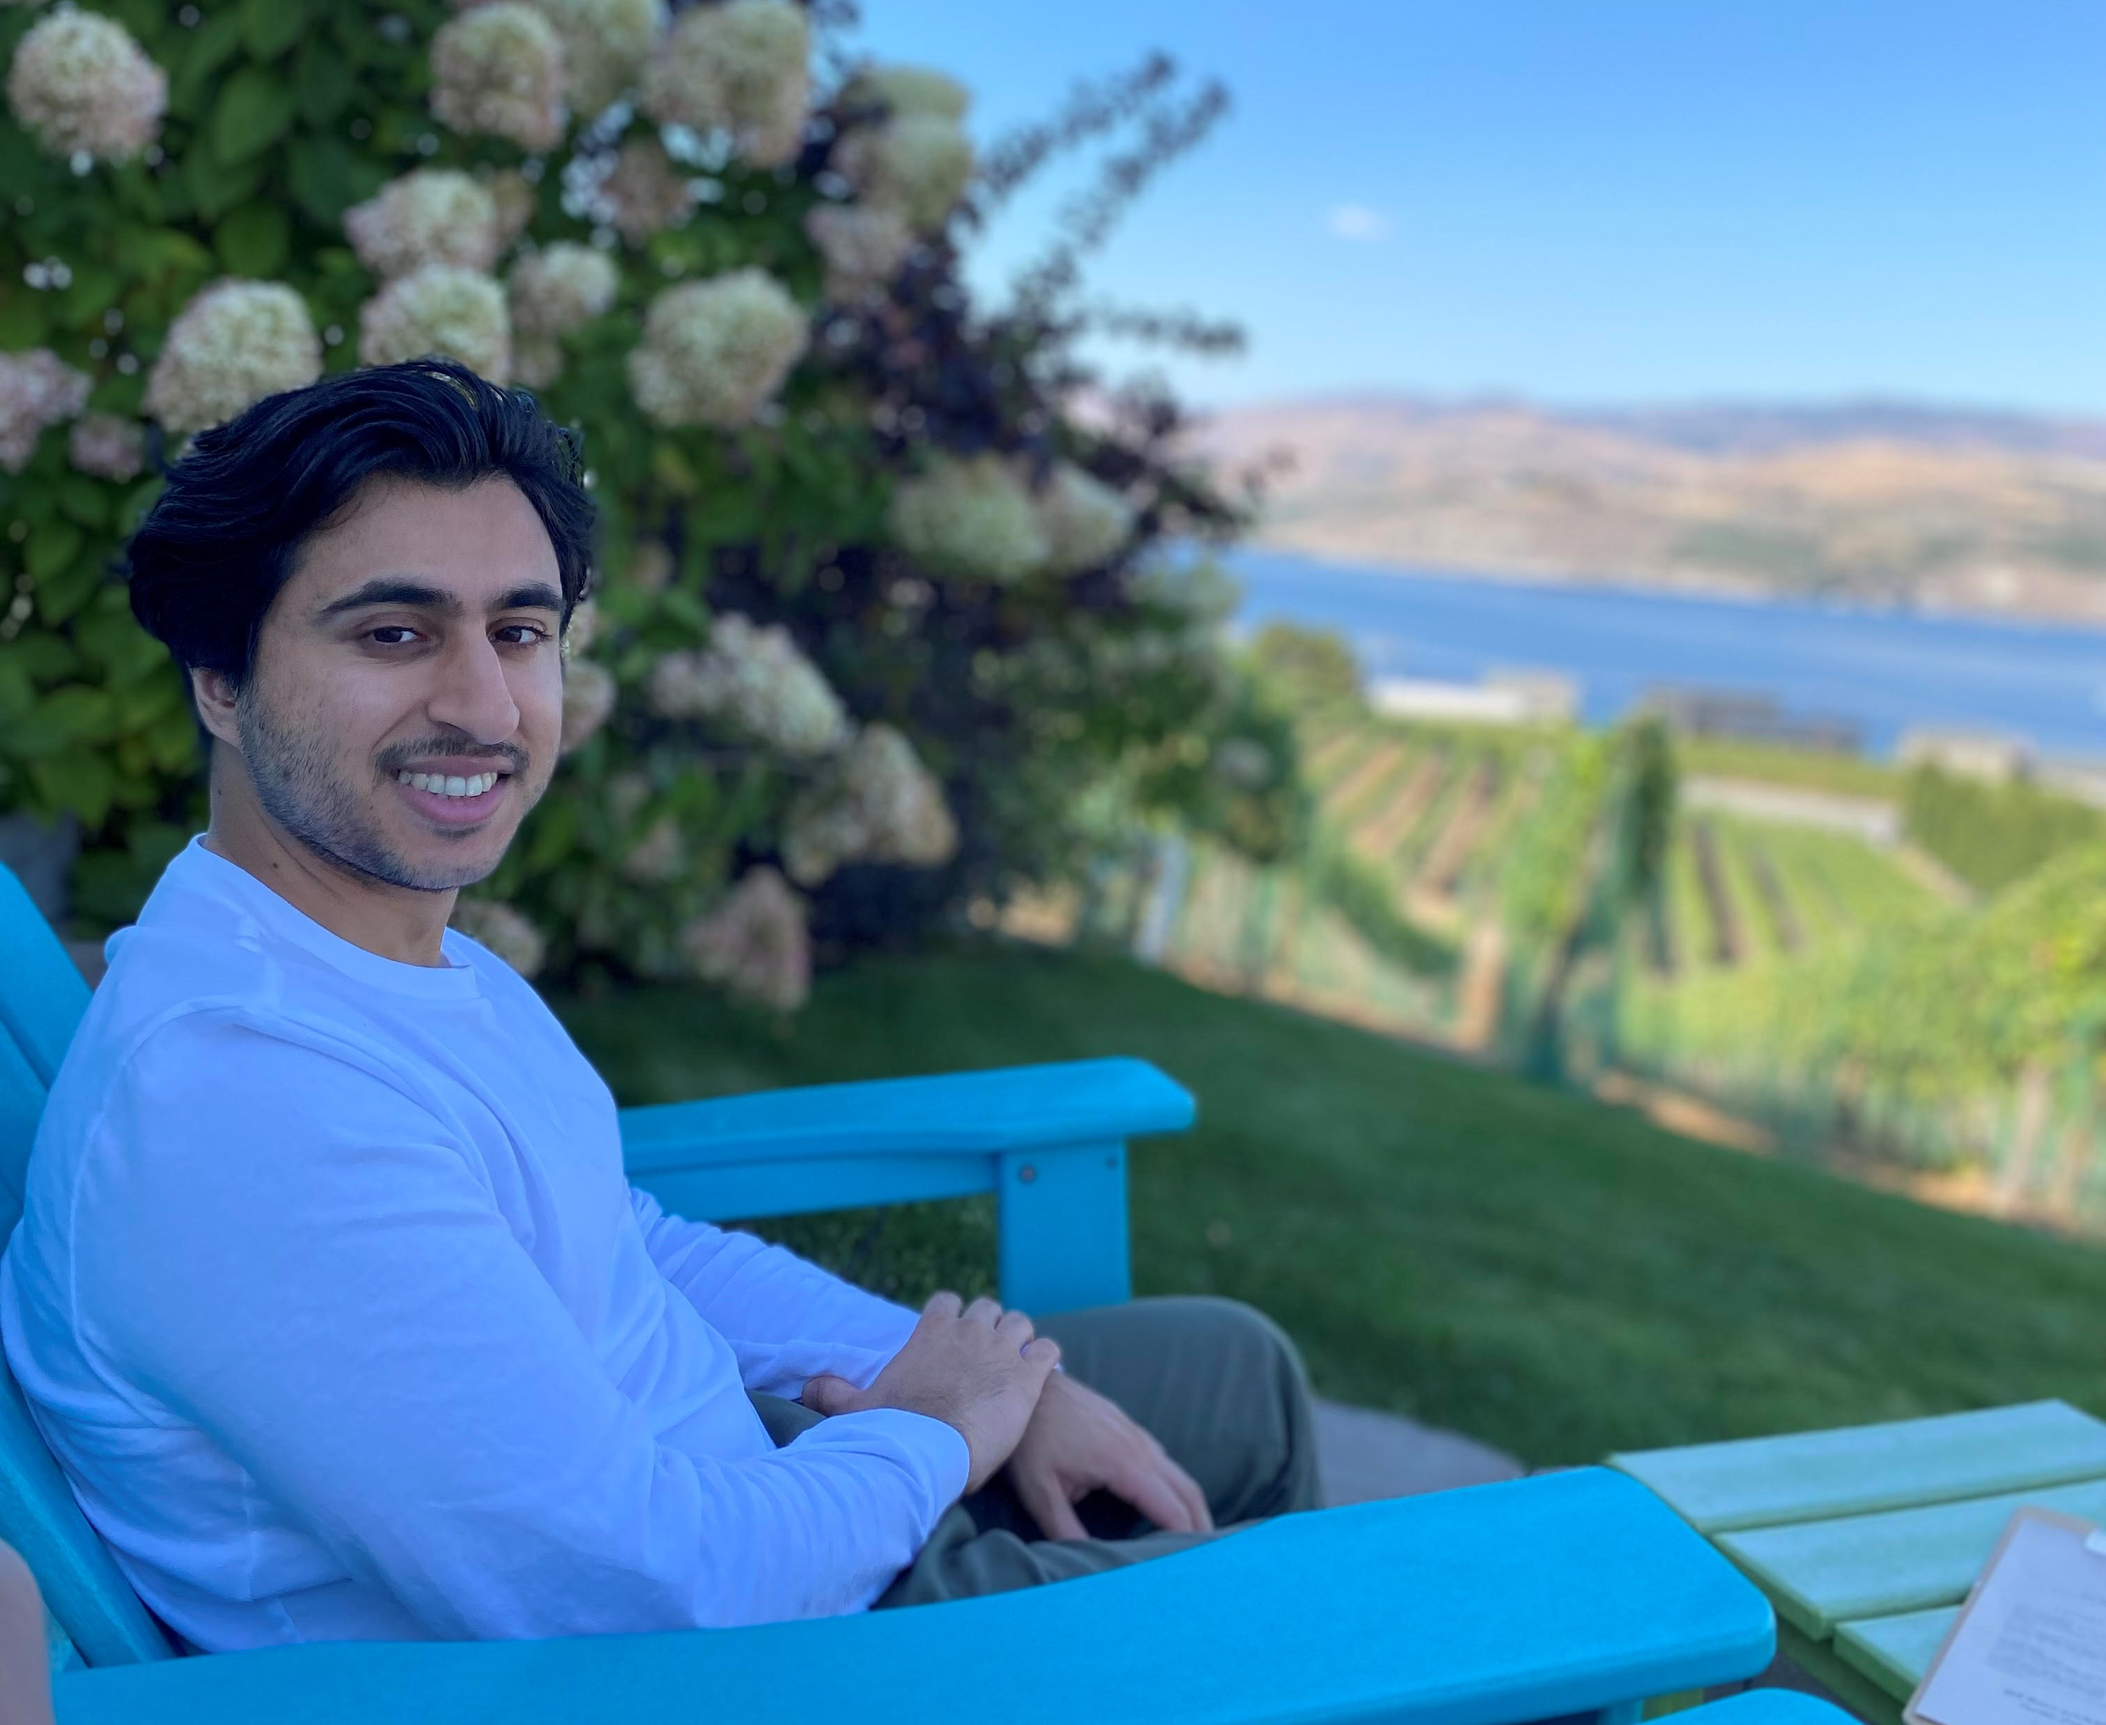
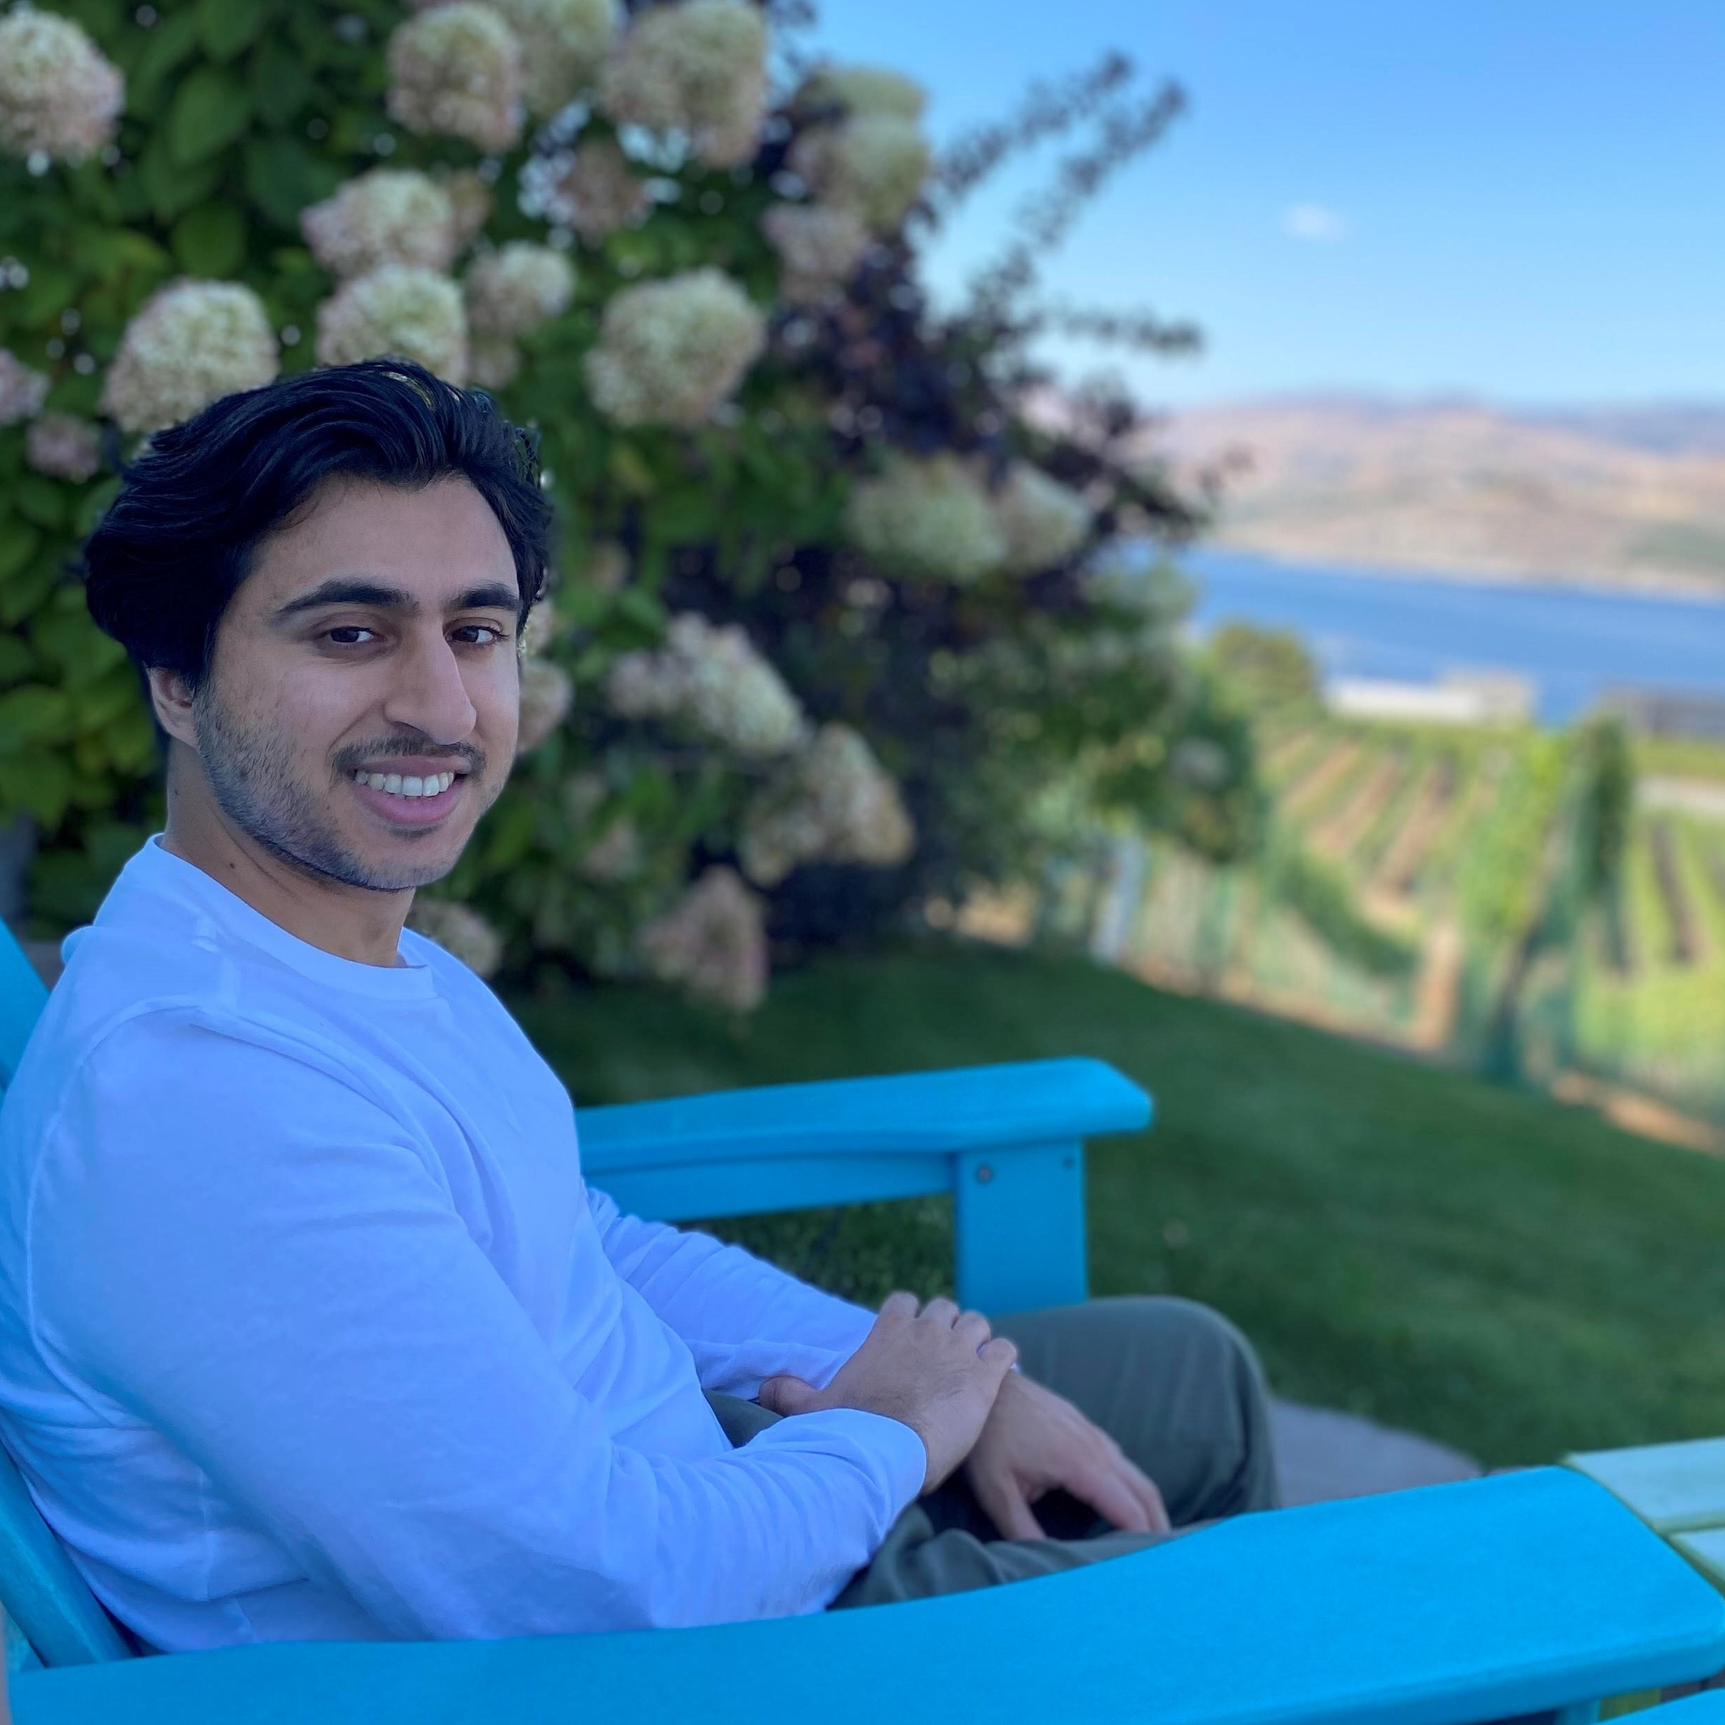
making about me responsive to shrinking page width

diff --git a/index.css b/index.css
@@ -17,27 +17,31 @@ body { margin: 0px; }
 }
 
 #about-container{
-    border: white 10px solid;
-    width: 1150px;
-    height: 500px;
+    /* border: white 10px solid; */
+    /* width: 1150px;
+    min-width: 1150px;
+    height: 500px; */
     position: relative;
     margin: auto;
     margin-top: 50px;
-    background-color: rgb(235, 239, 243);
+    text-align: center;
 }
 
 #about-image {
-    height: 500px;
-    width: 50%;
+    aspect-ratio: 1 / 1;
+    width: 30vw;
+    min-width: 500px;
     display: inline-block;
+    vertical-align: top;
 }
 
 #about-text__outer {
-    /* float: right; */
     display: inline-block;
-    position: absolute;
-    width: 50%;
-    height: 500px;
+    vertical-align: top;
+    aspect-ratio: 1 / 1;
+    width: 30vw;
+    min-width: 500px;
+    background-color: rgb(235, 239, 243);
 }
 
 #about-text__inner {
@@ -45,11 +49,6 @@ body { margin: 0px; }
     margin-left: 40px;
     margin-right: 40px;
     margin-top: 25px;
-}
-
-#about-text__inner h3 {
-    position: absolute;
-    bottom: 40px;
 }
 
 #about-text__inner p {

diff --git a/index.html b/index.html
@@ -22,8 +22,8 @@
                 </a>
             </div>
             <div id="about-container">
-                <img src="/media/chilling_in_chelan.jpg" id="about-image">
-                <div id="about-text__outer">
+                <img id="about-image" src="/media/chilling_in_chelan.jpg"
+                ><div id="about-text__outer">
                     <div class="inner" id="about-text__inner">
                         <h2>About Me</h2>
                         <p>

diff --git a/style.css b/style.css
@@ -1,6 +1,7 @@
 html { 
     font-family: 'Source Sans Pro', sans-serif;
     color: rgb(54, 69, 79);
+    min-width: 500px;
 }
 
 h1 {
@@ -46,5 +47,5 @@ p { font-size: 20px; }
     top:0;
     left:0;
     right:0;
-    position: absolute;
+    /* position: absolute; */
 }
